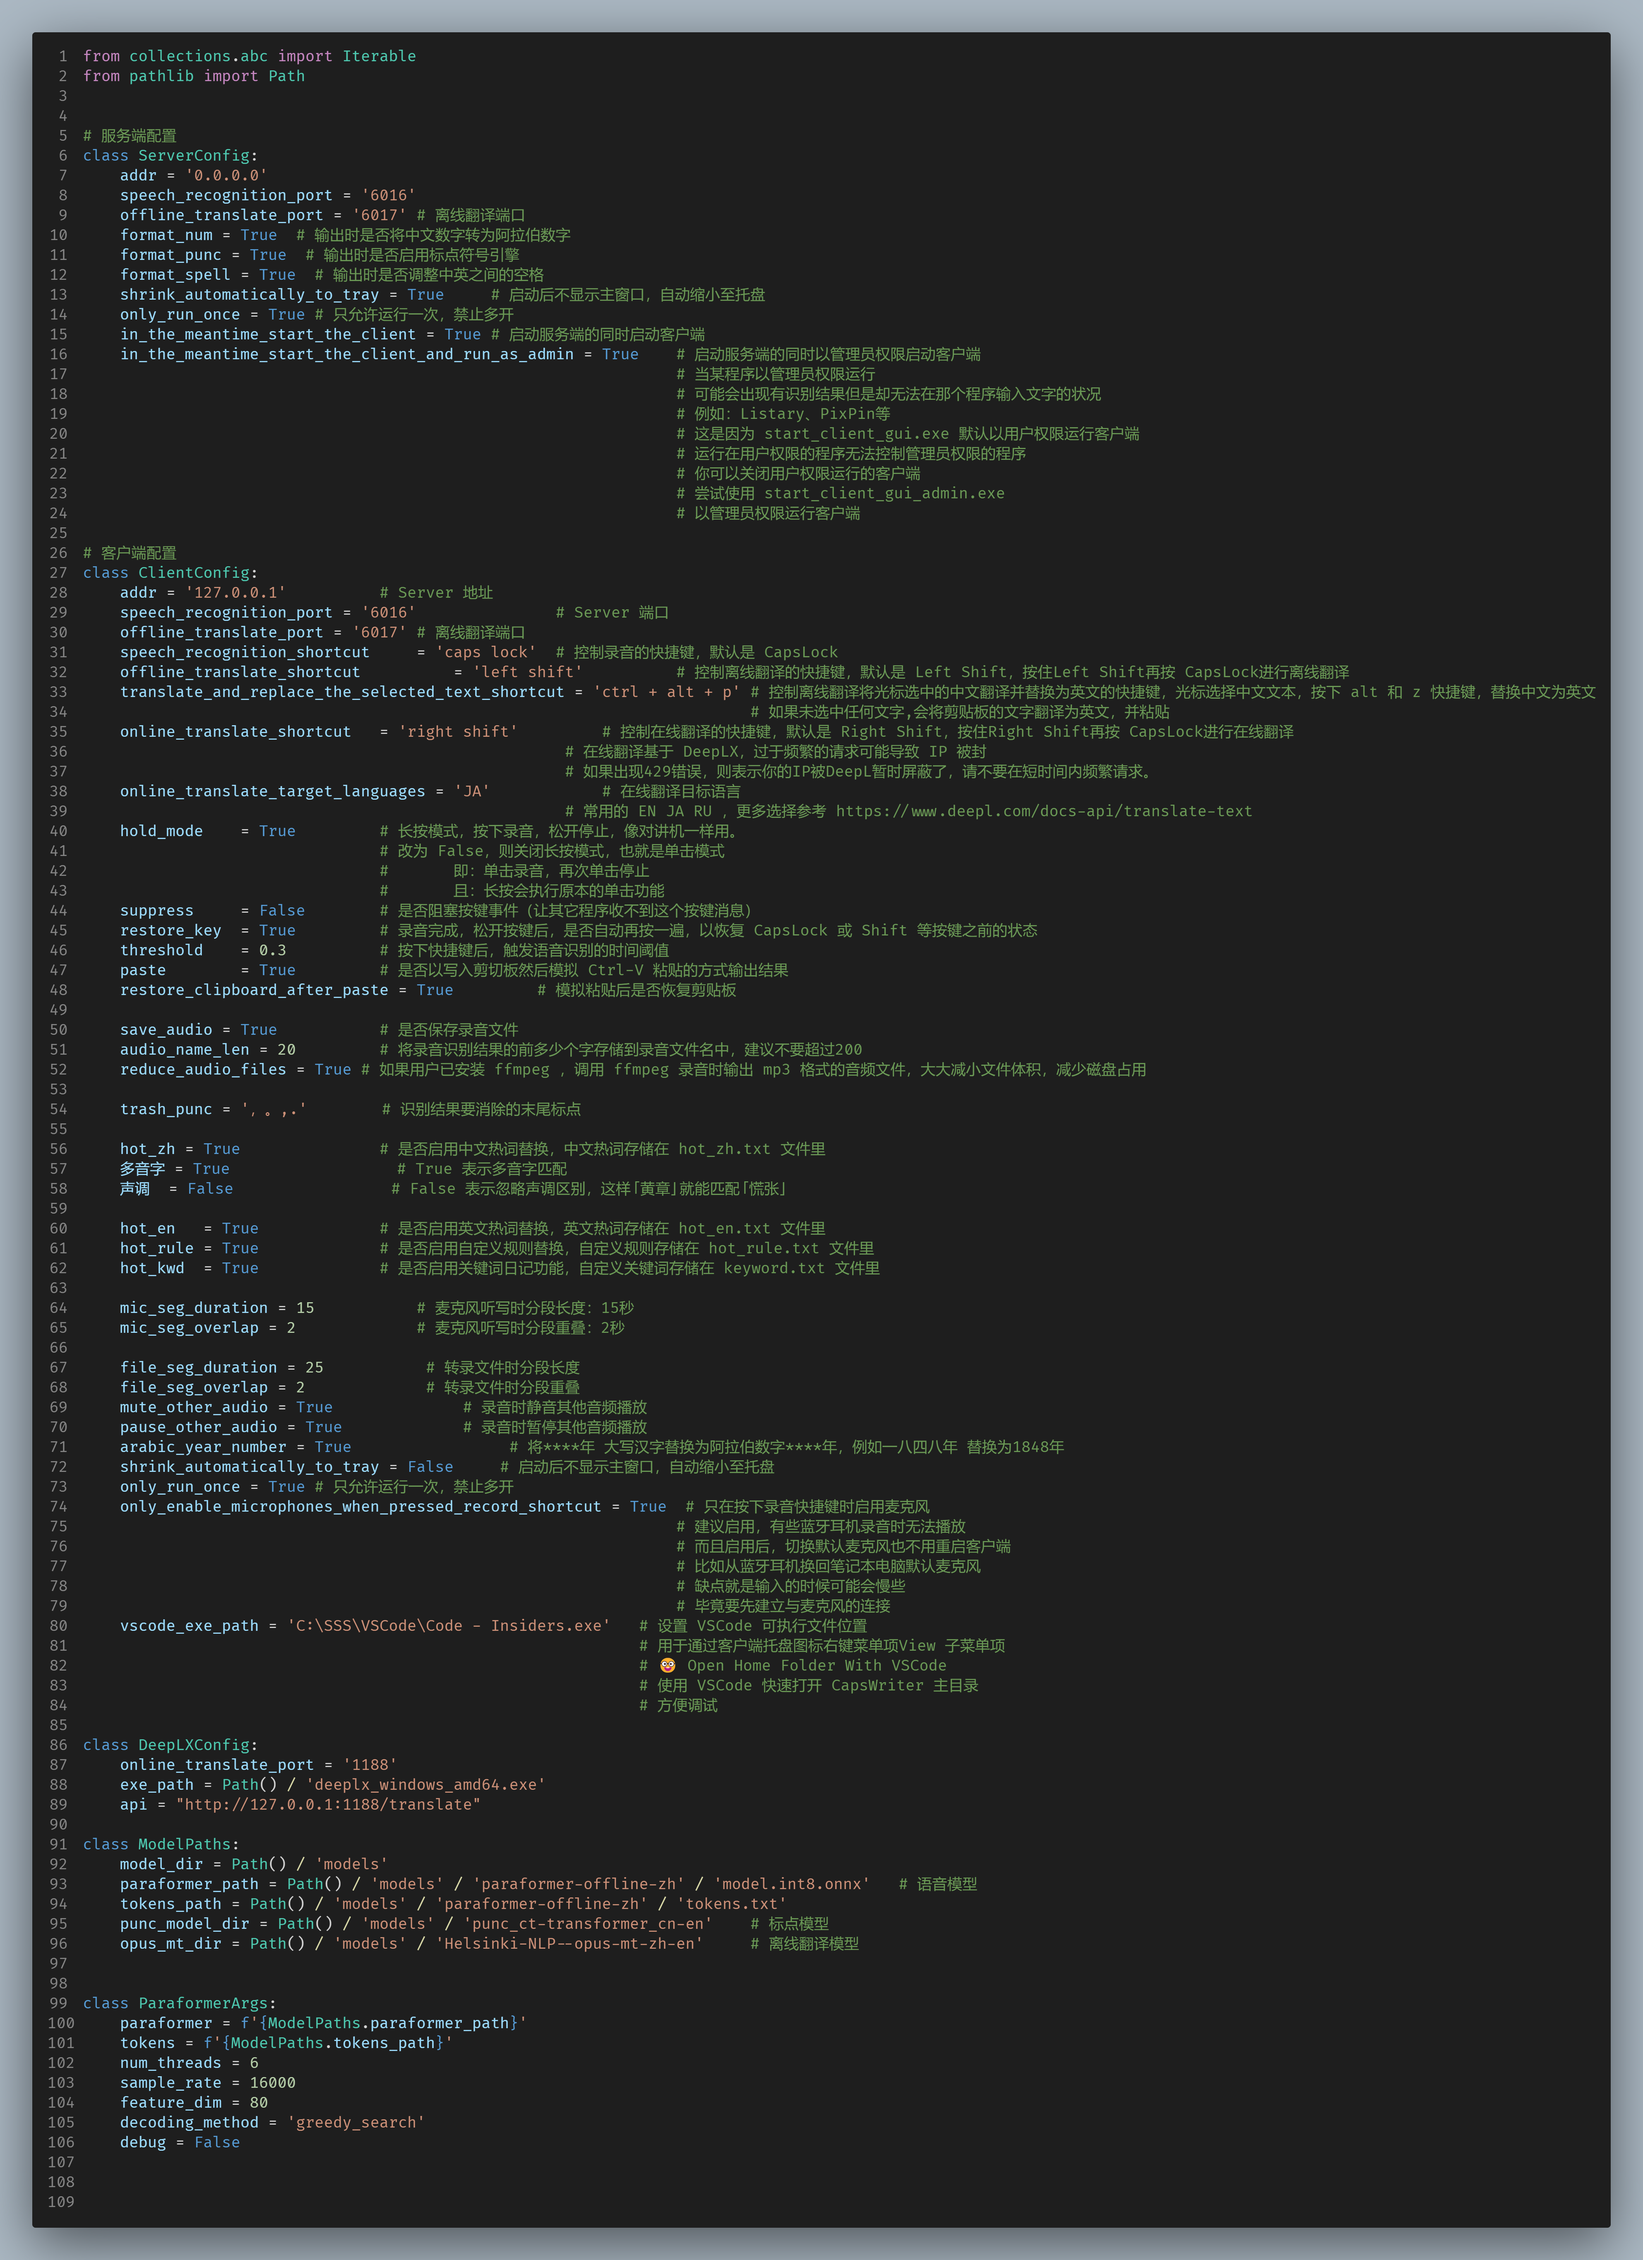
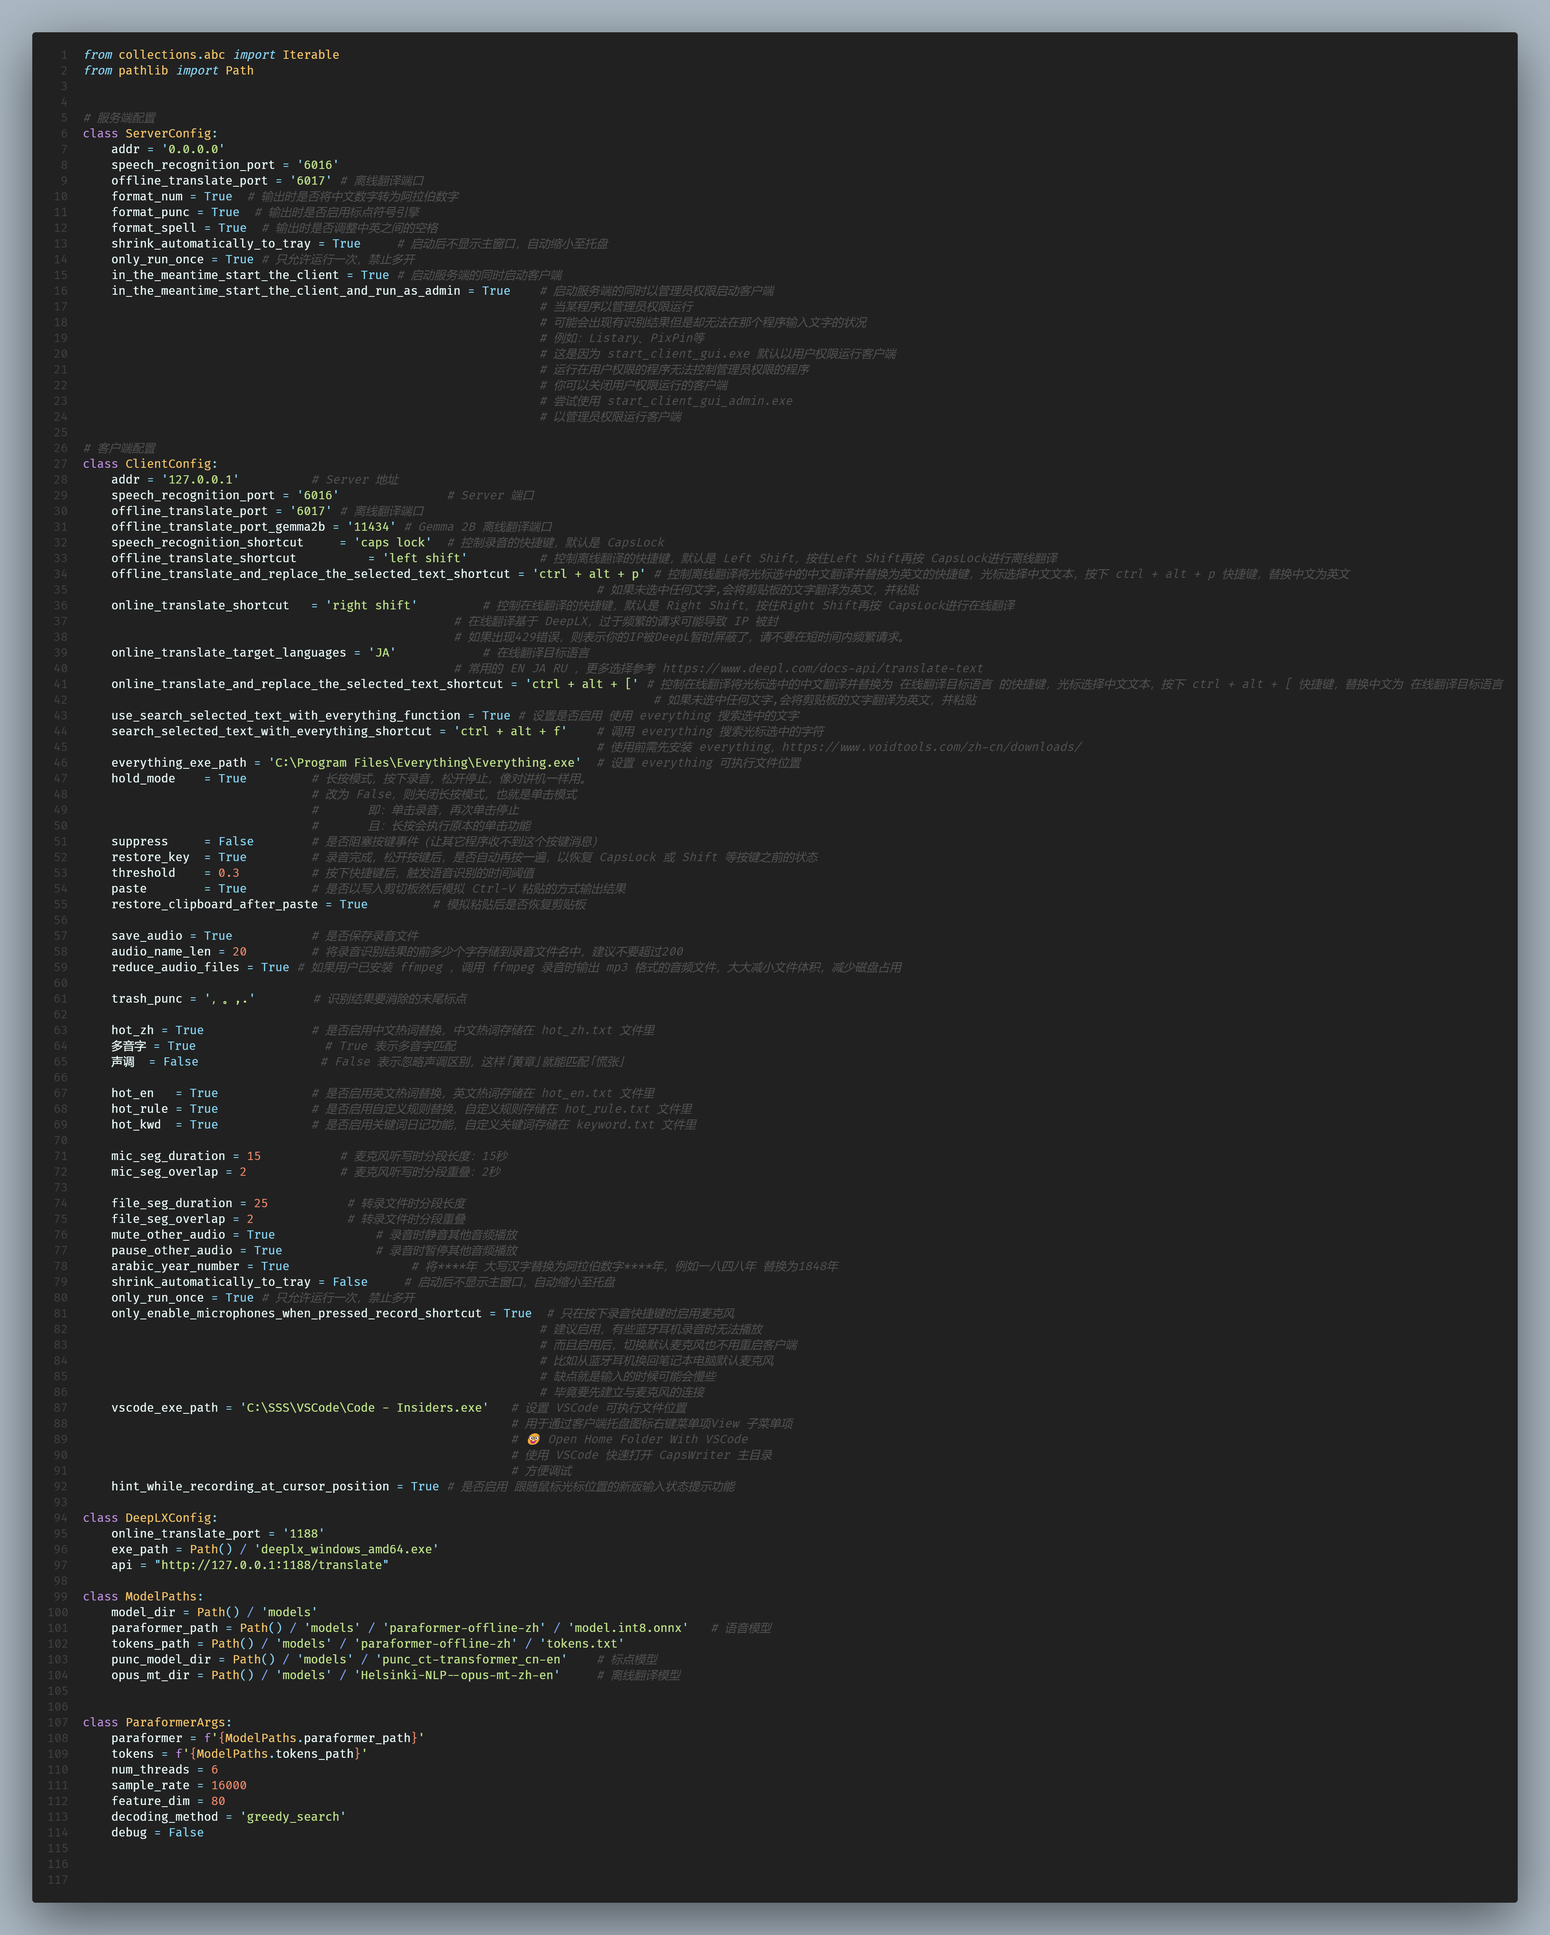
新增 可选 跟随鼠标光标位置的新版输入状态提示功能

diff --git a/config.py b/config.py
@@ -89,7 +89,7 @@ class ClientConfig:
                                                             # 🤓 Open Home Folder With VSCode 
                                                             # 使用 VSCode 快速打开 CapsWriter 主目录
                                                             # 方便调试
-    hint_while_recording_at_cursor_position = True
+    hint_while_recording_at_cursor_position = True # 是否启用 跟随鼠标光标位置的新版输入状态提示功能
 
 class DeepLXConfig:
     online_translate_port = '1188'
